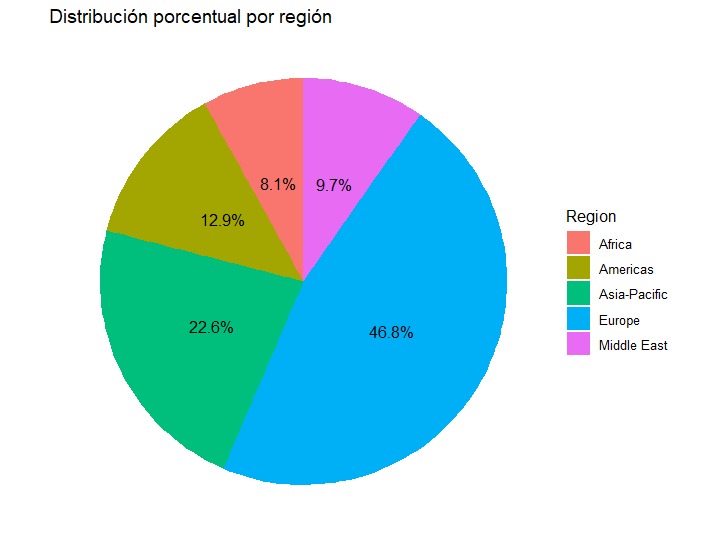
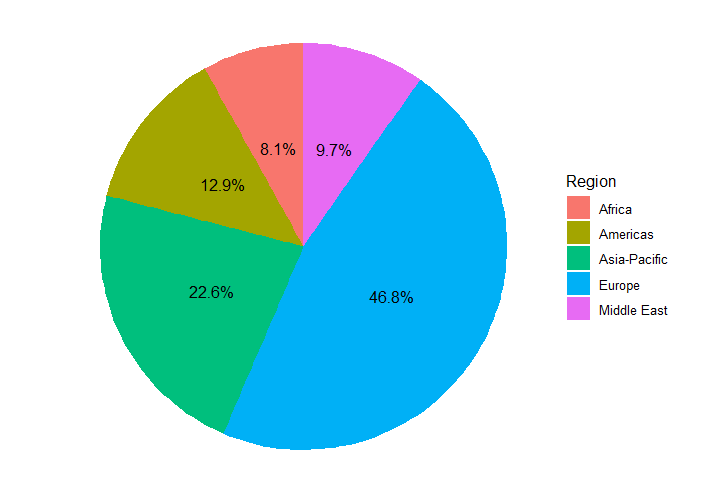
correccion torta

diff --git a/avance2-proyecto.tex b/avance2-proyecto.tex
@@ -274,7 +274,7 @@ Hay un dato con un Índice Commerce entre 40 y 50 con un total score correspondi
 
 \renewcommand{\arraystretch}{1.3}
 \begin{scriptsize}% latex table generated in R 4.4.2 by xtable 1.8-4 package
-% Wed Apr 16 20:06:49 2025
+% Wed Apr 16 20:46:01 2025
 \begin{longtable}{lrrrrrrrrrrr}
 \caption{Tabla de Frecuencia Bivariada Índice Commerce (A) vs Total Score (B)} \\ 
   \hline
@@ -463,7 +463,7 @@ La escasez de países en rangos intermedios (30-60 puntos) es particularmente pr
 El diagrama de torta de distribución regional proporciona el contexto geopolítico esencial para interpretar las desigualdades en los indicadores de IA (Talent-Research-Commercial), revelando que la excelencia tecnológica no se distribuye aleatoriamente, sino que se concentra en regiones con ventajas históricas de inversión en educación e innovación. Esta visualización evidencia cómo la mayor representación proporcional de ciertas zonas (como América del Norte y Asia-Pacífico) correlaciona directamente con su dominio en los intervalos superiores de los tres indicadores, mientras que regiones con menor representación proporcional (África, Latinoamérica) aparecen sistemáticamente en los rangos inferiores, configurando un mapa de dependencia tecnológica global
 
 \includegraphics[width=\linewidth]{Efrain(torta).png}
-
+Figura 4. Distribución porcentual por Región.
 
 \section{Análisis de resultados}
 El estudio realizado mediante tablas univariadas de frecuencias (absolutas, relativas y acumuladas) de los tres indicadores clave revela patrones estructurales preocupantes en el desarrollo global de la inteligencia artificial. El análisis muestra una concentración extrema de capacidades en un reducido grupo de países - principalmente Estados Unidos (con puntuaciones perfectas en Talent y Commercial), China (destacada en Research con 71.42 puntos) y algunas economías europeas -, que dominan simultáneamente los tres ámbitos. Esta triple brecha (formativa, científica y comercial), evidenciada por las frecuencias acumuladas donde el 80 por ciento de los países analizados muestra desempeños limitados (F.Rel.Acum mayor a 0.80 en intervalos menores a 30 puntos para los tres indicadores), crea un escenario crítico de dependencia tecnológica.
